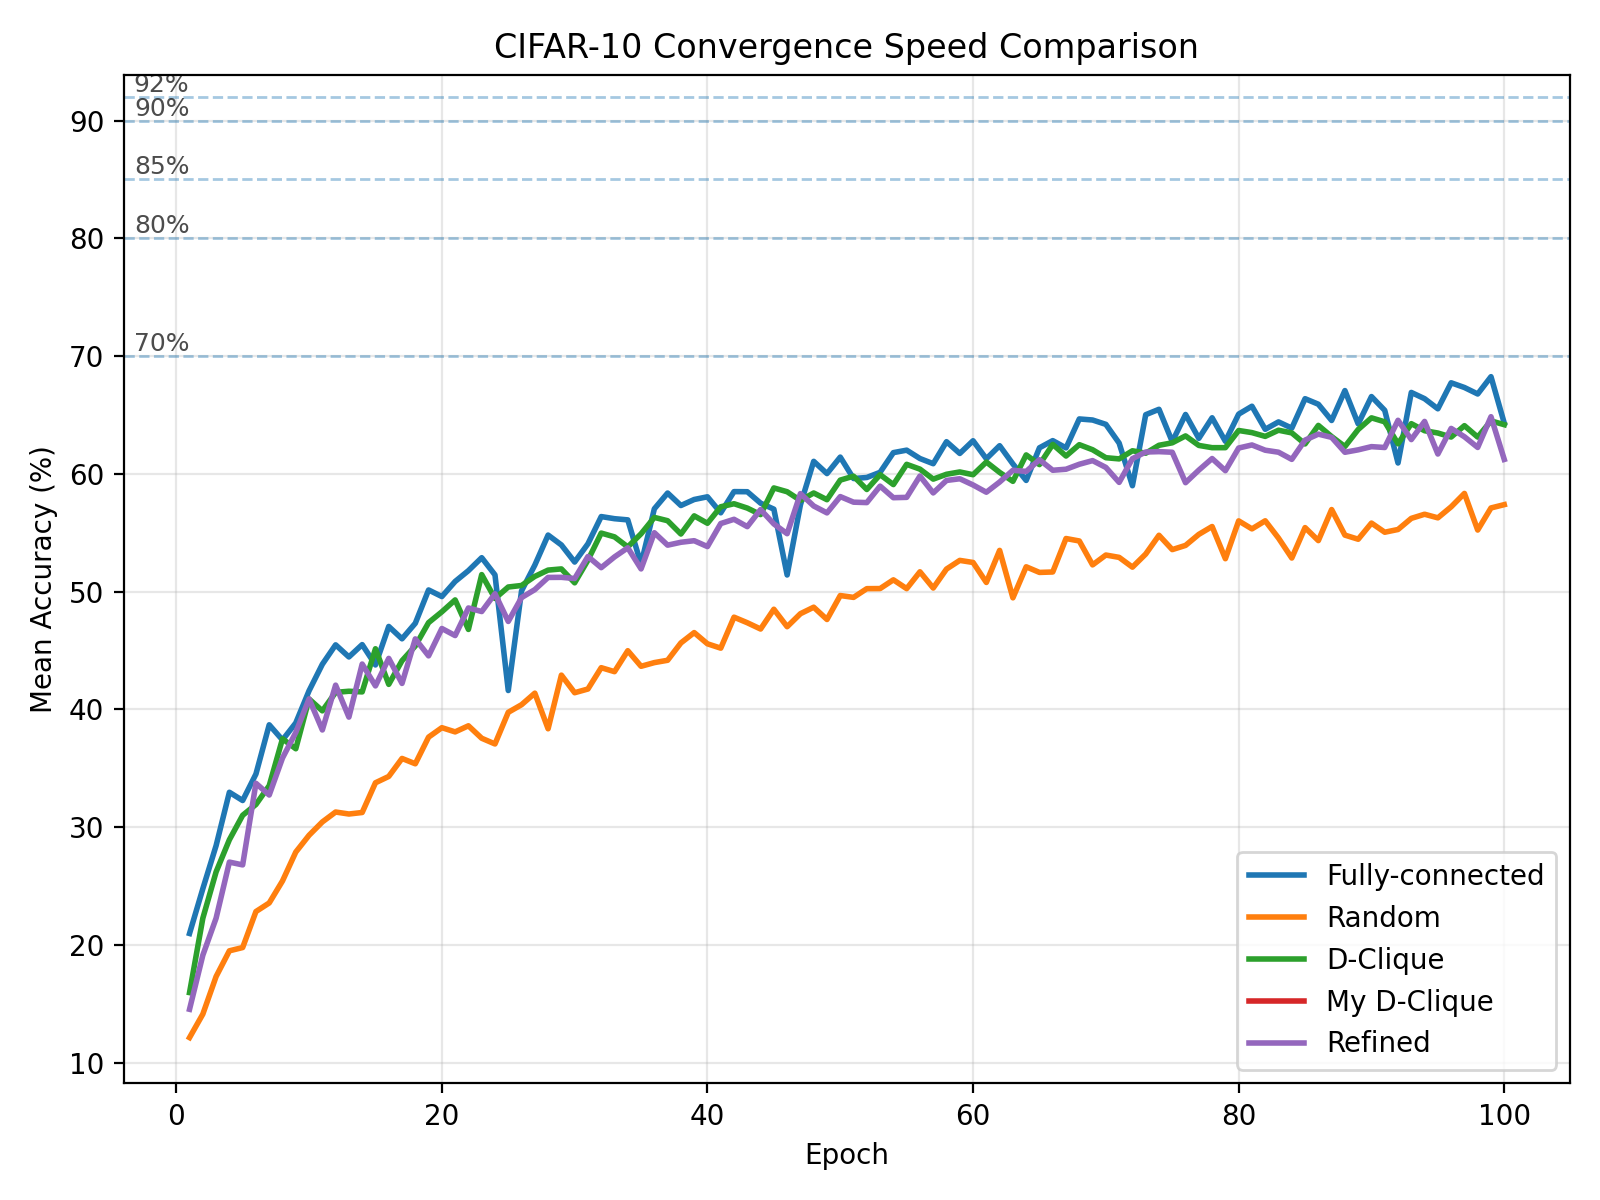
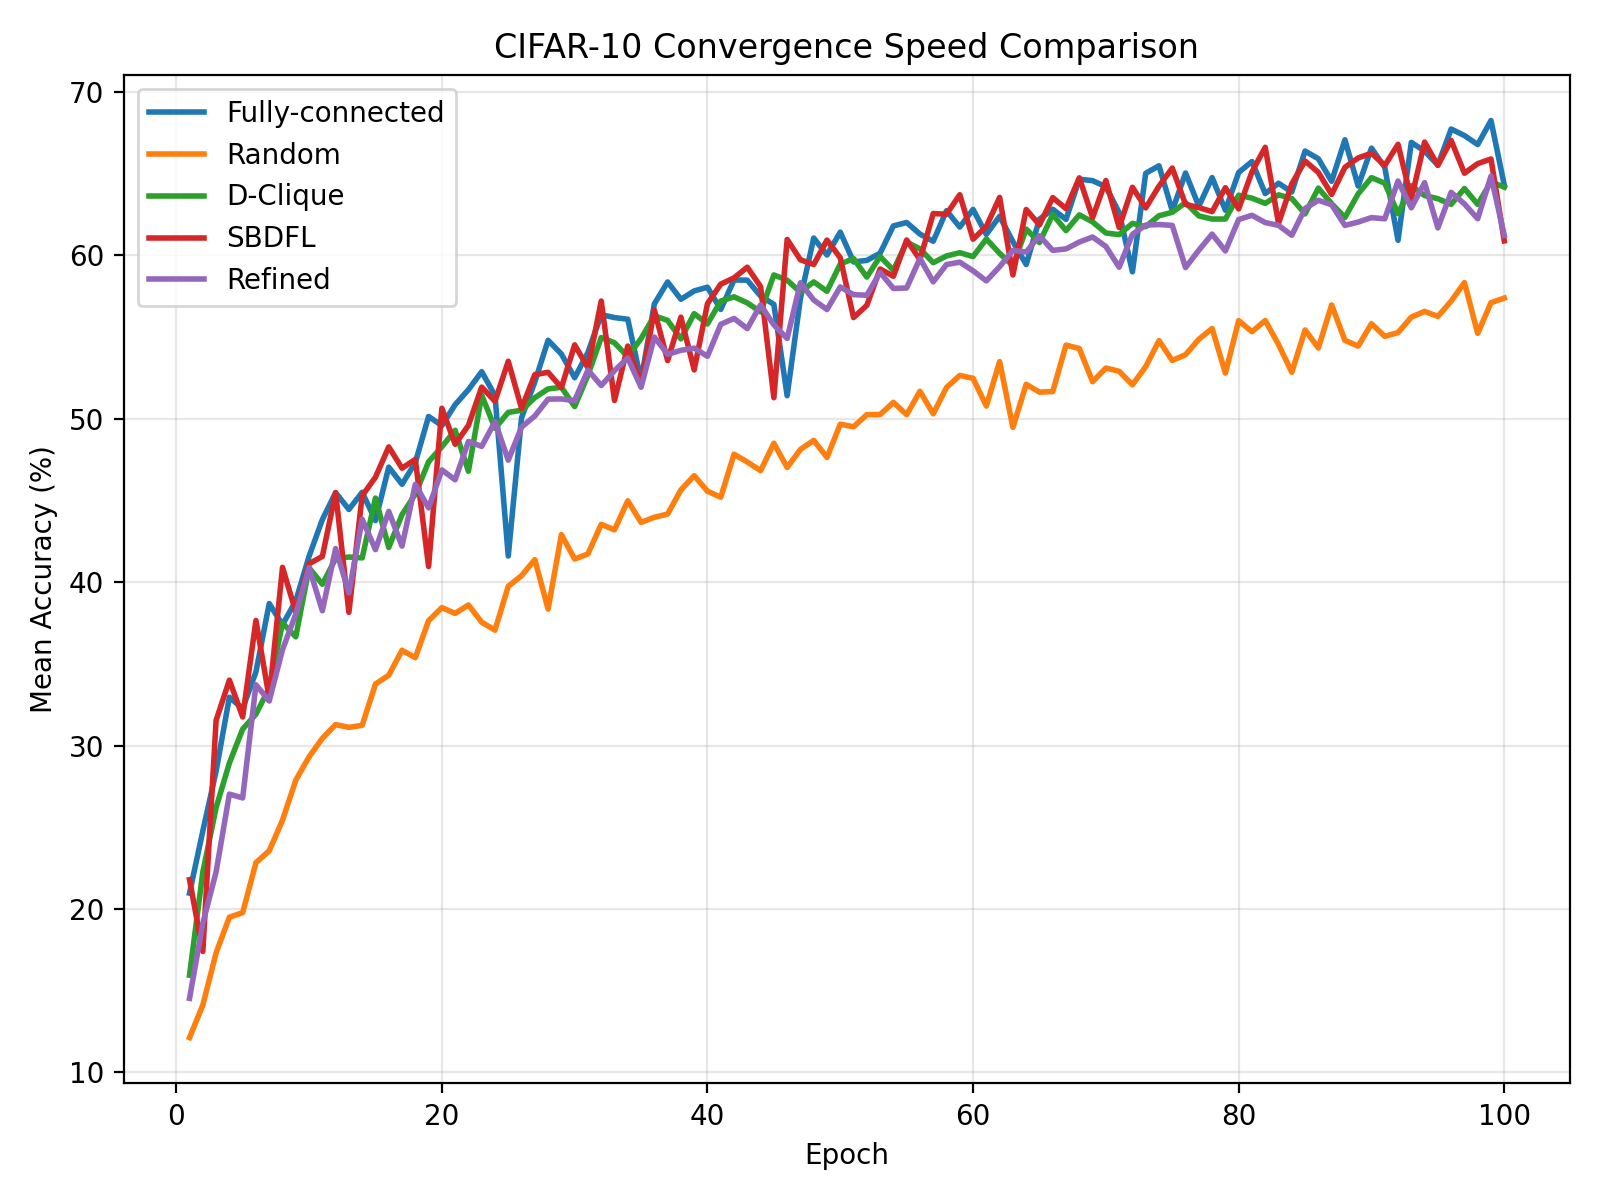
final touch

diff --git a/topology/refined_fw.py b/topology/refined_fw.py
@@ -5,36 +5,77 @@ from scipy.optimize import linear_sum_assignment
 from utils.communication import adjacency_from_W
 
 
-def class_proportions(labels: np.ndarray, node_indices: list[np.ndarray], n_classes: int) -> np.ndarray:
+# ------------------------------------------------------------
+# Utilities
+# ------------------------------------------------------------
+
+def class_proportions(
+    labels: np.ndarray,
+    node_indices: list[np.ndarray],
+    n_classes: int,
+) -> np.ndarray:
+    """
+    Pi[i, k] = proportion of class k on node i
+    """
     n = len(node_indices)
     Pi = np.zeros((n, n_classes), dtype=np.float64)
+
     for i, idx in enumerate(node_indices):
         counts = np.bincount(labels[idx], minlength=n_classes).astype(np.float64)
-        Pi[i] = counts / max(counts.sum(), 1.0)
+        s = counts.sum()
+        if s > 0:
+            Pi[i] = counts / s
+
     return Pi
 
 
+# ------------------------------------------------------------
+# STL-FW objective gradient
+# ------------------------------------------------------------
+
 def grad_g(W: np.ndarray, Pi: np.ndarray, lam: float) -> np.ndarray:
-    n, _ = Pi.shape
+    """
+    Gradient of the refined (STL-FW) objective
+    """
+    n = Pi.shape[0]
     ones = np.ones((n, 1), dtype=np.float64)
     J = (ones @ ones.T) / n
 
     diff = (W @ Pi) - (J @ Pi)
     term1 = (2.0 / n) * (diff @ Pi.T)
     term2 = (2.0 * lam / n) * (W - J)
+
     return term1 + term2
 
 
-def fw_atom_from_gradient(grad: np.ndarray) -> np.ndarray:
-    # Linear minimization oracle over permutation matrices
-    r, c = linear_sum_assignment(grad)
-    n = grad.shape[0]
+# ------------------------------------------------------------
+# Frank–Wolfe atom (permutation matrix)
+# ------------------------------------------------------------
+
+def fw_atom_from_gradient(G: np.ndarray) -> np.ndarray:
+    """
+    Linear minimization oracle over permutation matrices
+    """
+    r, c = linear_sum_assignment(G)
+    n = G.shape[0]
     P = np.zeros((n, n), dtype=np.float64)
     P[r, c] = 1.0
     return P
 
 
-def line_search_gamma(W: np.ndarray, P: np.ndarray, Pi: np.ndarray, lam: float) -> float:
+# ------------------------------------------------------------
+# Line search
+# ------------------------------------------------------------
+
+def line_search_gamma(
+    W: np.ndarray,
+    P: np.ndarray,
+    Pi: np.ndarray,
+    lam: float,
+) -> float:
+    """
+    Closed-form line search for quadratic STL-FW objective
+    """
     n, K = Pi.shape
     ones = np.ones((n, 1), dtype=np.float64)
     J = (ones @ ones.T) / n
@@ -48,39 +89,33 @@ def line_search_gamma(W: np.ndarray, P: np.ndarray, Pi: np.ndarray, lam: float) 
         a = (JPi[:, k] - WPi[:, k])
         b = D @ Pi[:, k]
         numer += float(a.T @ b)
+
     numer -= lam * float(np.trace((W - J).T @ D))
 
-    denom = float(
+    denom = (
         np.linalg.norm(D @ Pi, ord="fro") ** 2
         + lam * np.linalg.norm(D, ord="fro") ** 2
     )
 
     if denom <= 1e-12:
         return 0.0
+
     return float(np.clip(numer / denom, 0.0, 1.0))
 
 
-def symmetrize_and_row_normalize(W: np.ndarray) -> np.ndarray:
+# ------------------------------------------------------------
+# Core STL-FW solver
+# ------------------------------------------------------------
+
+def stl_fw(
+    Pi: np.ndarray,
+    lam: float,
+    iters: int,
+) -> np.ndarray:
     """
-    Enforces:
-    - symmetry
-    - non-negativity
-    - row-stochasticity
-
-    This corresponds to the feasibility assumptions used
-    when applying W as a mixing matrix in decentralized SGD.
+    Frank–Wolfe optimization over the Birkhoff polytope
     """
-    W = 0.5 * (W + W.T)              # enforce symmetry
-    W = np.maximum(W, 0.0)           # enforce non-negativity
-    row_sum = W.sum(axis=1, keepdims=True)
-    W = W / np.maximum(row_sum, 1e-12)
-    return W
-
-
-def stl_fw(Pi: np.ndarray, lam: float, iters: int) -> np.ndarray:
     n = Pi.shape[0]
-
-    # Initialization (identity is an extreme point of permutation hull)
     W = np.eye(n, dtype=np.float64)
 
     for _ in range(iters):
@@ -89,10 +124,47 @@ def stl_fw(Pi: np.ndarray, lam: float, iters: int) -> np.ndarray:
         gamma = line_search_gamma(W, P, Pi, lam)
         W = (1.0 - gamma) * W + gamma * P
 
-    # Enforce feasibility AFTER FW optimization (paper-compatible)
-    W = symmetrize_and_row_normalize(W)
     return W
 
+
+# ------------------------------------------------------------
+# Degree-constrained projection
+# ------------------------------------------------------------
+
+def sparsify_topk(
+    W: np.ndarray,
+    dmax: int,
+) -> np.ndarray:
+    """
+    Enforce degree constraint by keeping top-dmax neighbors
+    per node (excluding self), then symmetrize and normalize.
+    """
+    n = W.shape[0]
+    W_new = np.zeros_like(W)
+
+    for i in range(n):
+        # sort descending, skip self-loop
+        order = np.argsort(W[i])[::-1]
+        neighbors = [j for j in order if j != i][:dmax]
+        for j in neighbors:
+            W_new[i, j] = W[i, j]
+
+    # enforce symmetry
+    W_new = 0.5 * (W_new + W_new.T)
+
+    # non-negativity
+    W_new = np.maximum(W_new, 0.0)
+
+    # row normalization
+    row_sum = W_new.sum(axis=1, keepdims=True)
+    W_new = W_new / np.maximum(row_sum, 1e-12)
+
+    return W_new
+
+
+# ------------------------------------------------------------
+# Public builder
+# ------------------------------------------------------------
 
 def build(
     labels: np.ndarray,
@@ -101,13 +173,23 @@ def build(
     lam: float,
     iters: int,
     device: torch.device,
+    dmax: int,
 ):
+    """
+    Build refined topology with explicit degree bound.
+    """
     Pi = class_proportions(labels, node_indices, n_classes)
 
+    # 1) Dense refined FW optimization
     W_np = stl_fw(Pi, lam=lam, iters=iters)
 
-    # Adjacency extracted for communication graph
+    # 2) Degree constraint (THIS IS THE FIX)
+    W_np = sparsify_topk(W_np, dmax)
+
+    # 3) Adjacency for communication stats
     A = adjacency_from_W(W_np, eps=1e-12)
 
+    # 4) Torch tensor
     W = torch.tensor(W_np, dtype=torch.float32, device=device)
+
     return A, W

diff --git a/draw.py b/draw.py
@@ -1,0 +1,84 @@
+import random
+import math
+import networkx as nx
+import matplotlib.pyplot as plt
+
+
+def block_positions(block_sizes, centers, radius=0.45, seed=42):
+    """
+    Place each SBM block in a separate region (circle around a block center),
+    so the drawing visually shows blocks.
+    """
+    rng = random.Random(seed)
+    pos = {}
+    node = 0
+    for b, size in enumerate(block_sizes):
+        cx, cy = centers[b]
+        for _ in range(size):
+            # random point in a disk around (cx, cy)
+            ang = rng.random() * 2 * math.pi
+            r = radius * math.sqrt(rng.random())
+            x = cx + r * math.cos(ang)
+            y = cy + r * math.sin(ang)
+            pos[node] = (x, y)
+            node += 1
+    return pos
+
+
+def main():
+    # -------------------------------
+    # SBM configuration
+    # -------------------------------
+    block_sizes = [10, 10, 10, 10, 10, 10]  # 6 blocks
+    p_intra = 0.65                          # dense inside blocks
+    p_inter = 0.03                          # sparse between blocks
+    seed = 42
+
+    n_blocks = len(block_sizes)
+
+    probs = [
+        [p_intra if i == j else p_inter for j in range(n_blocks)]
+        for i in range(n_blocks)
+    ]
+
+    G = nx.stochastic_block_model(block_sizes, probs, seed=seed)
+
+    # -------------------------------
+    # Color nodes by block
+    # -------------------------------
+    node_colors = []
+    for b, size in enumerate(block_sizes):
+        node_colors.extend([b] * size)
+
+    # -------------------------------
+    # Create "block-looking" layout
+    # -------------------------------
+    # Put block centers on a circle
+    centers = []
+    for b in range(n_blocks):
+        ang = 2 * math.pi * b / n_blocks
+        centers.append((2.0 * math.cos(ang), 2.0 * math.sin(ang)))
+
+    pos = block_positions(block_sizes, centers, radius=0.55, seed=seed)
+
+    # -------------------------------
+    # Draw
+    # -------------------------------
+    plt.figure(figsize=(10, 7))
+    nx.draw(
+        G,
+        pos,
+        node_color=node_colors,
+        cmap=plt.cm.tab10,
+        node_size=160,
+        edge_color="gray",
+        width=0.8,
+        alpha=0.85,
+    )
+    plt.title("SBM Graph (Blocks Shown Explicitly)")
+    plt.axis("off")
+    plt.show()
+
+
+if __name__ == "__main__":
+    main()

diff --git a/plot_convergence.py b/plot_convergence.py
@@ -6,11 +6,11 @@ METHODS = {
     "fully": "Fully-connected",
     "random": "Random",
     "dclique": "D-Clique",
-    "mydclique": "My D-Clique",
+    "mydclique": "SBDFL",
     "refined": "Refined",
 }
 
-REFERENCE_LINES = [70, 80, 85, 90, 92]
+REFERENCE_LINES = []
 
 MNIST_LOGS = {
     "fully": "mnist_fully_output.txt",
